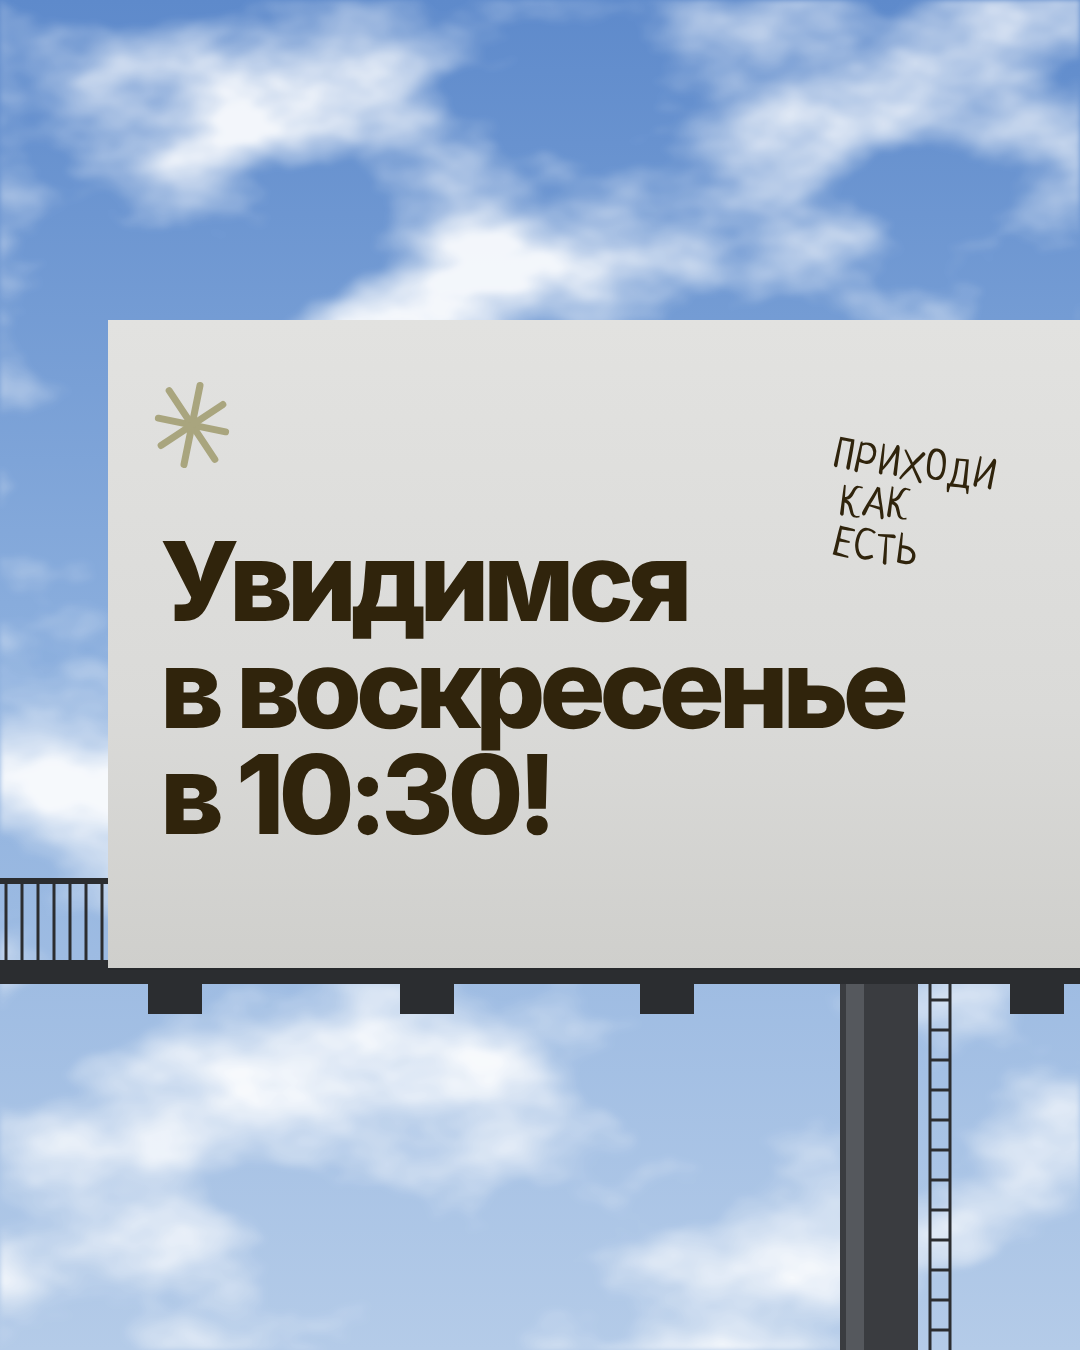
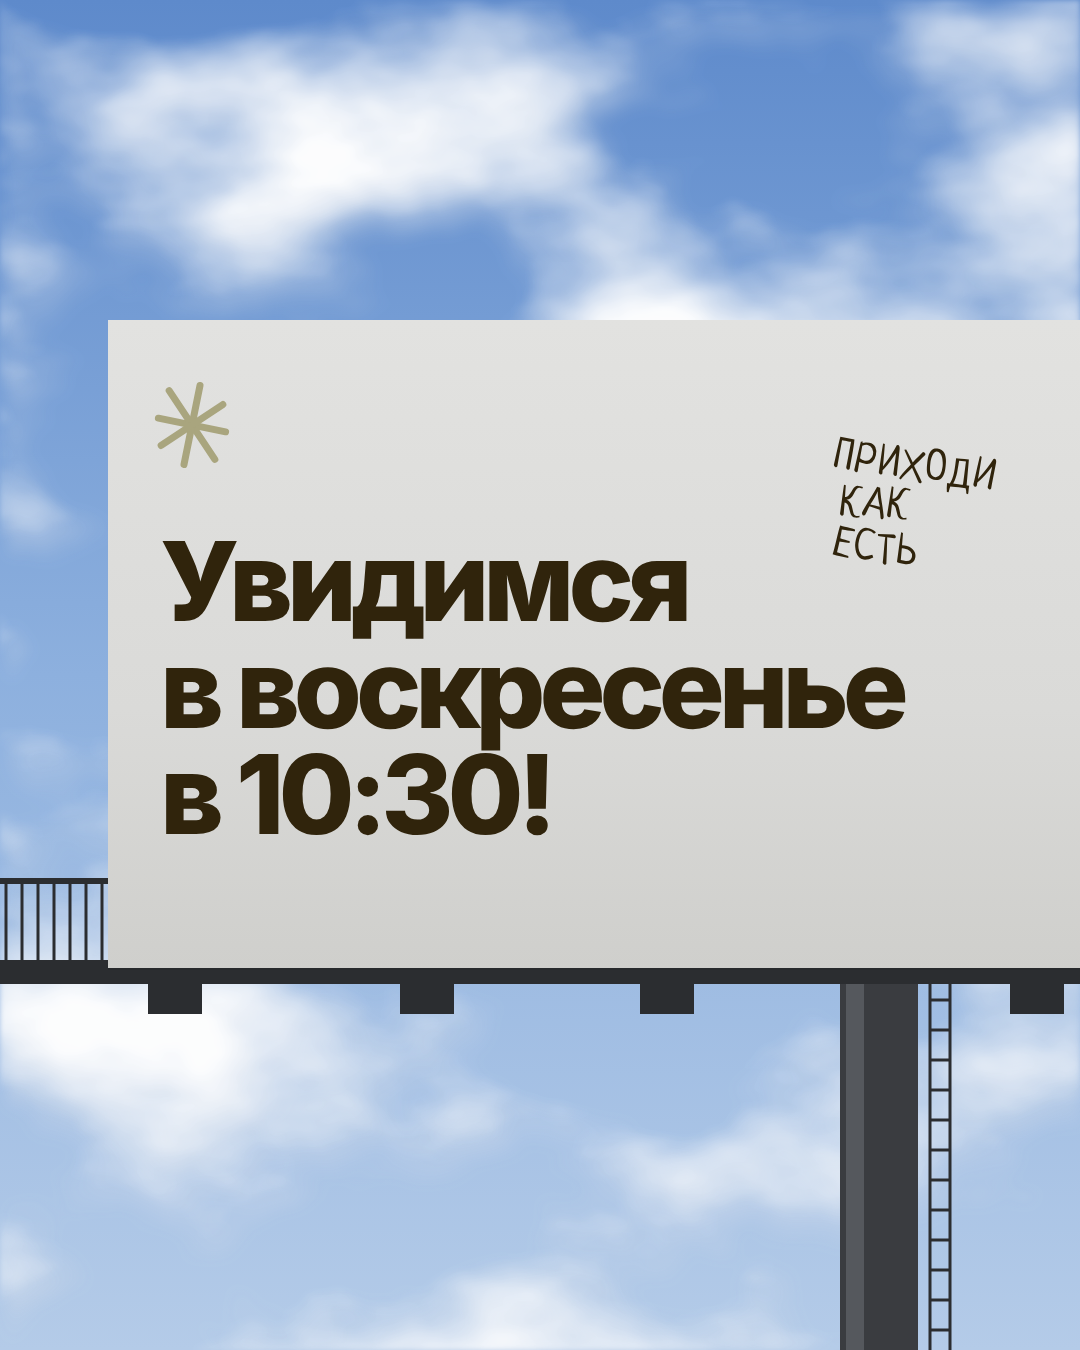
Близнецы: доделаны правки критики, скил — основа проверки
- 045: облака с объёмом (тень под белой шапкой), как фото неба в референсе.
- 049: хлеб подтянут к тёплому свету бокала.
- 015: «Вход свободный» жирнее — контраст в норме.
- CLAUDE.md: проверка poster-critique — основа проверки любого макета,
  критичное и заметное исправлять до показа.

Claude-Session: https://claude.ai/code/session_01QcpF8q36dATzwPnrN5PE56

diff --git a/projects/2026-10-18-twins/twin-045.html b/projects/2026-10-18-twins/twin-045.html
@@ -31,14 +31,21 @@
 </main>
 <script src="twin.js"></script>
 <script>
-  // Облака: шум, отсечённый порогом и размытый, белым по небу.
+  // Облака с объёмом, как на фото неба в референсе: один и тот же шум — снизу серо-голубая тень со сдвигом,
+  // сверху белая шапка чуть меньше, так что тень проступает по нижнему краю.
   const sky = document.getElementById('sky');
   const defs = svgEl(sky, 'defs');
-  const f = svgEl(defs, 'filter', { id: 'clouds', x: 0, y: 0, width: '100%', height: '100%' });
-  svgEl(f, 'feTurbulence', { type: 'fractalNoise', baseFrequency: '0.0035 0.006', numOctaves: 5, seed: 12, result: 'n' });
-  svgEl(f, 'feColorMatrix', { in: 'n', type: 'matrix', values: '0 0 0 0 1  0 0 0 0 1  0 0 0 0 1  0 0 -3.2 0 1.72', result: 'c' });
-  svgEl(f, 'feGaussianBlur', { in: 'c', stdDeviation: 2.5 });
-  svgEl(sky, 'rect', { width: 1080, height: 1350, filter: 'url(#clouds)', opacity: 0.92 });
+  const cloud = (id, rgb, cut, dx, dy, blur) => {
+    const f = svgEl(defs, 'filter', { id, x: 0, y: 0, width: '100%', height: '100%' });
+    svgEl(f, 'feTurbulence', { type: 'fractalNoise', baseFrequency: '0.0026 0.0046', numOctaves: 5, seed: 12, result: 'n' });
+    svgEl(f, 'feColorMatrix', { in: 'n', type: 'matrix', values: `0 0 0 0 ${rgb[0]}  0 0 0 0 ${rgb[1]}  0 0 0 0 ${rgb[2]}  0 0 -3.2 0 ${cut}`, result: 'c' });
+    svgEl(f, 'feOffset', { in: 'c', dx, dy, result: 'o' });
+    svgEl(f, 'feGaussianBlur', { in: 'o', stdDeviation: blur });
+  };
+  cloud('cloudShade', [0.66, 0.73, 0.84], 1.78, 8, 16, 7);
+  cloud('cloudTop', [1, 1, 1], 1.64, 0, 0, 2.5);
+  svgEl(sky, 'rect', { width: 1080, height: 1350, filter: 'url(#cloudShade)', opacity: 0.9 });
+  svgEl(sky, 'rect', { width: 1080, height: 1350, filter: 'url(#cloudTop)', opacity: 0.95 });
 
   // Конструкция щита: балка с кронштейнами, площадка с перилами, опора с лестницей.
   const fr = document.getElementById('frame');

diff --git a/projects/2026-10-18-twins/twin-015.html b/projects/2026-10-18-twins/twin-015.html
@@ -24,7 +24,7 @@
   .time { left: 130px; top: 662px; font: 800 58px/0.95 'Montserrat'; letter-spacing: -0.03em;
           background: linear-gradient(180deg, #fff, #a5a5a5); -webkit-background-clip: text; background-clip: text; color: transparent; }
   .free { left: 342px; top: 815px; width: 246px; height: 49px; border: 2px solid var(--orange); display: flex; align-items: center; justify-content: center;
-          font: 600 24px/1 'Montserrat'; color: var(--orange); letter-spacing: .01em; }
+          font: 700 24px/1 'Montserrat'; color: var(--orange); letter-spacing: .01em; }
   .spk-label { left: 300px; top: 940px; width: 120px; transform: rotate(-90deg); font: 700 13px/1 'Montserrat'; letter-spacing: .14em; text-transform: uppercase; text-align: center; }
   .spk { left: 368px; top: 889px; font: 800 52px/0.92 'Montserrat'; letter-spacing: -0.03em; color: var(--orange); text-transform: uppercase; }
   .info { left: 708px; top: 830px; font: 700 14px/1.35 'Montserrat'; text-transform: uppercase; letter-spacing: .02em; }

diff --git a/projects/2026-10-18-twins/twin-049.html b/projects/2026-10-18-twins/twin-049.html
@@ -22,6 +22,8 @@
   .still img { position: absolute; }
   .still .glass { left: 344px; top: 0; width: 220px; }
   .still .bread { left: 414px; top: 318px; width: 380px; }
+  /* Хлеб снят при другом свете — подтянуть к тёплому золотистому, как в референсе. */
+  .still img.bread:not(.sh) { filter: brightness(1.12) saturate(1.12) sepia(.14); }
   /* Тень: тот же силуэт, чёрный, сплющенный и скошенный от основания вниз-влево. */
   .still .sh { filter: brightness(0) blur(5px); transform-origin: 50% 100%; }
   .still .sh.glass { transform: scaleY(-.34) skewX(45deg); opacity: .16; }
